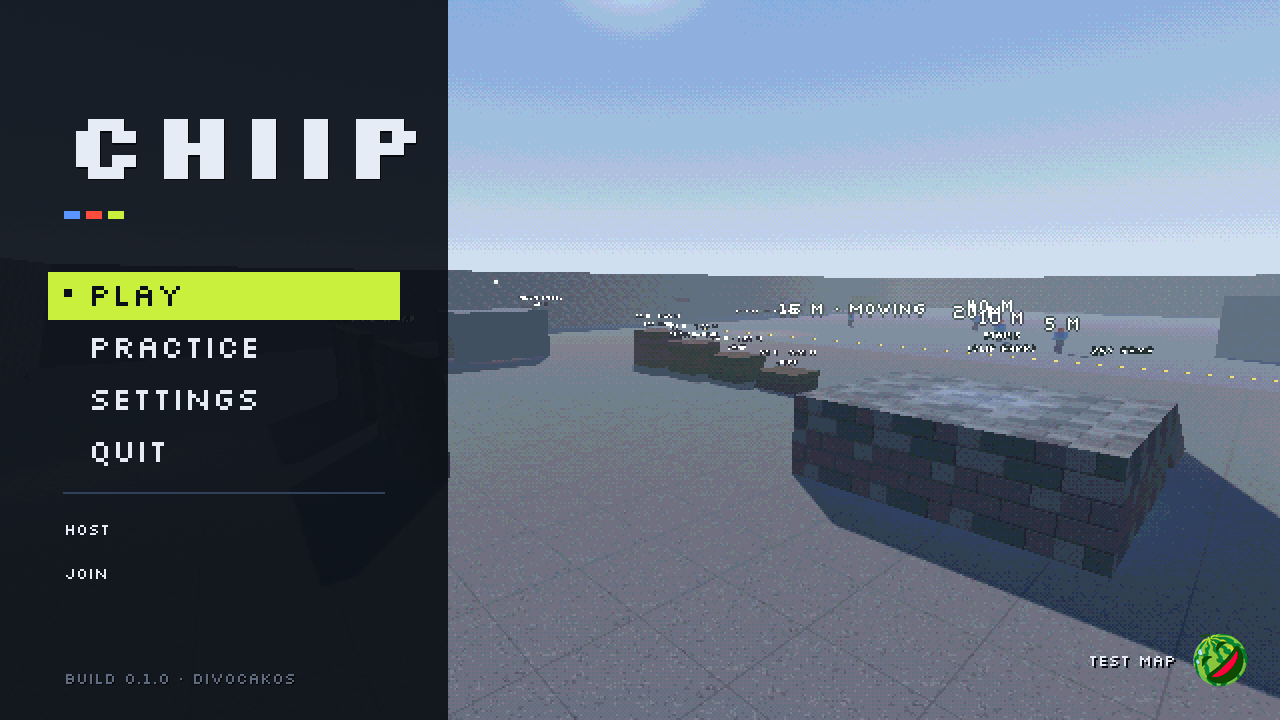
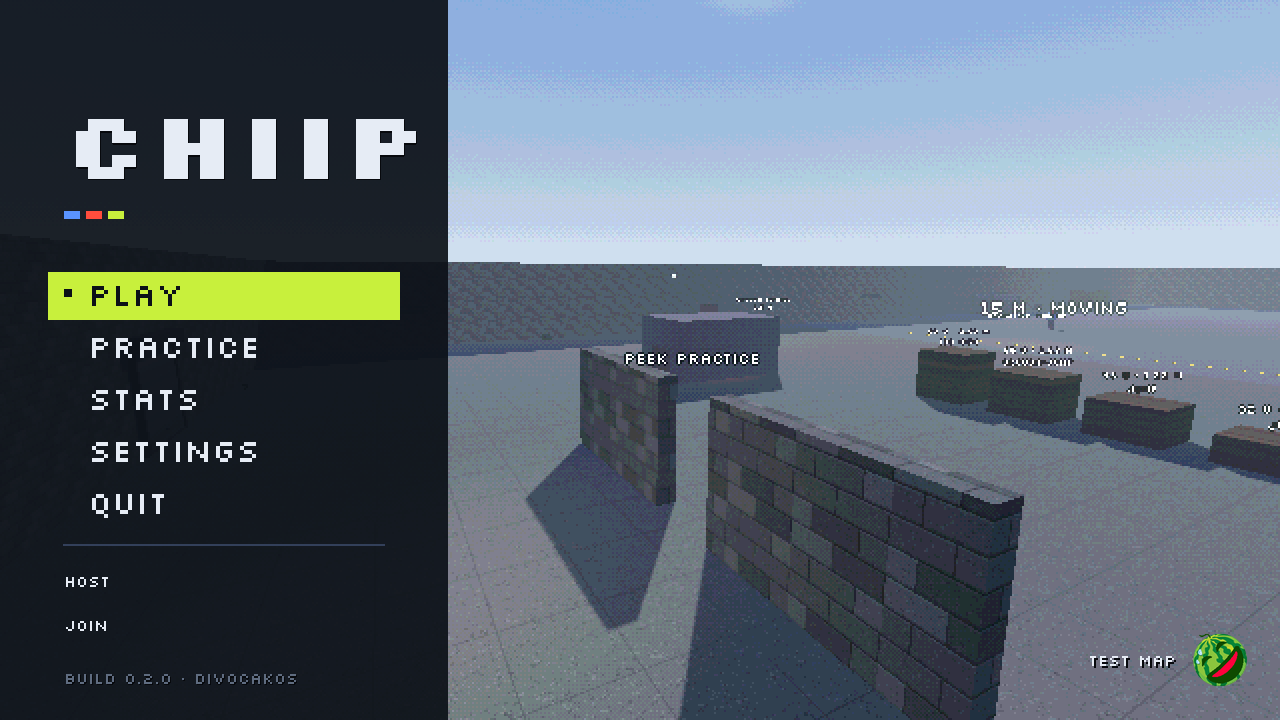
v0.2 prep: website, changelog, known issues and README for 0.2.0 (nothing published)
- site/: the start page describes v0.2 (modes, killcam, game browser, chat, stats and training, sound, accessibility, gamepad); five fresh pictures of the v0.2 UI (menu, Play screen, killcam, Stats, the game browser) replace the v0.1 ones; the Play page covers the game browser, Recent, chat and the map vote
- CHANGELOG.md: the 0.2.0 section (the release notes); docs/KNOWN_ISSUES.md brought up to v0.2; README tagline and friends guide
- D-245 records the findings for the code branch (NetProtocol.VERSION still 2, the Credits footer's "all rights reserved", tools/ui_screenshots.gd hangs)
- No version bump, no export, no push

diff --git a/site/index.html b/site/index.html
@@ -4,12 +4,12 @@
 	<meta charset="utf-8">
 	<meta name="viewport" content="width=device-width, initial-scale=1">
 	<title>Chiip: a tactical shooter with a retro Quake look</title>
-	<meta name="description" content="Chiip is a free tactical shooter in the spirit of Counter-Strike, with the look of a 1990s Quake-era game. Play against bots, or online with friends. Windows, macOS and Linux.">
+	<meta name="description" content="Chiip is a free tactical shooter in the spirit of Counter-Strike, with the look of a 1990s Quake-era game. Bomb rounds, team deathmatch and free-for-all, against bots or online with friends. Windows, macOS and Linux.">
 	<meta http-equiv="Content-Security-Policy" content="default-src 'none'; script-src 'self'; style-src 'self'; img-src 'self'; font-src 'self'; connect-src https://api.github.com; base-uri 'none'; form-action 'none'">
 	<meta name="referrer" content="strict-origin-when-cross-origin">
 	<meta name="theme-color" content="#0b1017">
 	<meta property="og:title" content="Chiip: a tactical shooter with a retro Quake look">
-	<meta property="og:description" content="Chiip is a free tactical shooter in the spirit of Counter-Strike, with the look of a 1990s Quake-era game. Play against bots, or online with friends. Windows, macOS and Linux.">
+	<meta property="og:description" content="Chiip is a free tactical shooter in the spirit of Counter-Strike, with the look of a 1990s Quake-era game. Bomb rounds, team deathmatch and free-for-all, against bots or online with friends. Windows, macOS and Linux.">
 	<meta property="og:image" content="https://jankozeluh.github.io/Chiip/img/menu.png">
 	<link rel="icon" href="img/divocakos.png">
 	<link rel="stylesheet" href="css/style.css">
@@ -31,7 +31,7 @@
 		<section class="hero wrap">
 			<h1>Chiip</h1>
 			<div class="chips" aria-hidden="true"><span class="blue"></span><span class="red"></span><span class="lime"></span></div>
-			<p class="lead">A tactical shooter in the spirit of Counter-Strike, with the look of a 1990s Quake-era game. You and your bot teammates against a team of bots, or with friends online in place of the bots. Free, for Windows, macOS and Linux.</p>
+			<p class="lead">A tactical shooter in the spirit of Counter-Strike, with the look of a 1990s Quake-era game. Bomb rounds, team deathmatch or everyone for themselves, with bot teammates and bot enemies, or online with friends in place of the bots. Free, for Windows, macOS and Linux.</p>
 			<div class="actions">
 				<a class="button primary" data-download-link href="https://github.com/Jankozeluh/Chiip/releases/latest">Download</a>
 				<a class="button" href="play.html">Play with friends</a>
@@ -40,24 +40,27 @@
 		</section>
 
 		<section class="wrap">
-			<div class="frame"><img src="img/menu.png" width="1280" height="720" alt="Chiip's main menu: Play, Practice, Settings and Quit, over a slow flight across a map"></div>
+			<div class="frame"><img src="img/menu.png" width="1280" height="720" alt="Chiip's main menu: Play, Practice, Stats, Settings and Quit, with Host and Join, over a slow flight across a map"></div>
 
 			<h2>What it is</h2>
 			<div class="cards">
-				<div class="card"><h3>Two modes</h3><p><strong>Bomb</strong>: CS-style rounds. Buy in the freeze time, plant or defuse, first to 5 rounds with a side swap. <strong>Team Deathmatch</strong>: respawning, first team to the kill limit.</p></div>
-				<div class="card"><h3>Three maps and a range</h3><p>Depot, Square and Spillway, small and fast, alone or in a rotation. The Shooting Range has targets at every distance and a stand for every gun.</p></div>
-				<div class="card"><h3>Four classes</h3><p>Two are offered at random each match. Rifleman, Bulwark, Marksman and Scout each bring a perk and a loadout.</p></div>
-				<div class="card"><h3>A full arsenal</h3><p>Rifle, carbine, SMG, shotgun, sniper, pistol, hand cannon, knife and three grenades, with armor, kits and a light economy.</p></div>
-				<div class="card"><h3>CS-style feel</h3><p>Counter-strafing, a spray pattern you can learn, headshots, a bunny-hop cap, and sensitivity in CS units. Bots on three difficulties.</p></div>
-				<div class="card"><h3>Online with friends</h3><p>One player hosts, friends join by address, bots fill the empty slots. Made for <a href="play.html">Tailscale</a>: nothing to open on your router.</p></div>
+				<div class="card"><h3>Three modes</h3><p><strong>Bomb</strong>: CS-style rounds. Buy in the freeze time, plant or defuse, first to 5 rounds with a side swap. <strong>Team Deathmatch</strong>: respawning, first team to the kill limit. <strong>Free-for-all</strong>: everyone for themselves. After a death the <strong>killcam</strong> shows the last seconds through your killer's eyes.</p></div>
+				<div class="card"><h3>Maps and a range</h3><p>Depot, Square and Spillway, small and fast, alone or in a rotation (at the end of a match everyone votes for the next map). The Shooting Range has targets at every distance, an <strong>aim trainer</strong> and a <strong>spray wall</strong> that draws each gun's pattern.</p></div>
+				<div class="card"><h3>Classes and arsenal</h3><p>Rifleman, Bulwark, Marksman and Scout (two are offered at random each match) and a full arsenal: rifle, carbine, SMG, shotgun, sniper, pistol, hand cannon, knife and three grenades, armor, kits and a light economy.</p></div>
+				<div class="card"><h3>CS-style feel</h3><p>Counter-strafing, a spray pattern you can learn, headshots, <strong>wallbangs</strong> through thin cover, and sensitivity in CS units. Bots on three difficulties that call out enemies and trade kills.</p></div>
+				<div class="card"><h3>Online with friends</h3><p>One player hosts, friends join, bots fill the empty slots. Made for <a href="play.html">Tailscale</a>: nothing to open on your router. Games on your network list themselves in the <strong>game browser</strong>; hosts you joined are remembered; <strong>text chat</strong> works in the lobby and in matches.</p></div>
+				<div class="card"><h3>Stats and training</h3><p>K/D, ADR, headshot % and accuracy per weapon, wins per mode and map, and your last 100 matches, all saved on your computer. Your bests in the aim trainer and the spray wall are kept too.</p></div>
+				<div class="card"><h3>Sound</h3><p>Every gun has its own close and far shot, sound is <strong>muffled through walls</strong> and rings in yards, rooms and halls, so you hear where a fight is and what is in the way. Menu music and round stingers included.</p></div>
+				<div class="card"><h3>For everyone</h3><p>A <strong>colour-blind-safe</strong> team colour option, <strong>gamepad</strong> support with button prompts, a compass with callouts, a UI that scales to any window, fullscreen and a UI scale setting.</p></div>
+				<div class="card"><h3>A look of its own</h3><p>Pixel-art menus in the Silkscreen font, a map kit with textures, props and lamps drawn for Chiip, a palette effect, and a free, open game: <a href="about.html">licences and credits</a>.</p></div>
 			</div>
 
 			<h2>Screens</h2>
 			<div class="shots">
-				<figure><div class="frame"><a href="img/bomb.png"><img src="img/bomb.png" width="1280" height="720" loading="lazy" alt="Planting the bomb at a site on Depot, with the round timer, score, money, health and ammo"></a></div><figcaption>Planting the bomb on Depot</figcaption></figure>
-				<figure><div class="frame"><a href="img/classes.png"><img src="img/classes.png" width="1280" height="720" loading="lazy" alt="The class menu offering the Scout and the Rifleman"></a></div><figcaption>Pick one of two classes</figcaption></figure>
-				<figure><div class="frame"><a href="img/buy.png"><img src="img/buy.png" width="1280" height="720" loading="lazy" alt="The buy menu with pistols, primaries, gear and grenades"></a></div><figcaption>The buy menu in the freeze time</figcaption></figure>
-				<figure><div class="frame"><a href="img/lobby.png"><img src="img/lobby.png" width="1280" height="720" loading="lazy" alt="The online lobby with two teams, bot slots and the address friends join at"></a></div><figcaption>The lobby: share the address, press Start</figcaption></figure>
+				<figure><div class="frame"><a href="img/modes.png"><img src="img/modes.png" width="1280" height="720" loading="lazy" alt="The Play screen with the four mode cards: Team Deathmatch, Free-for-all, Bomb and Practice, and the options under them"></a></div><figcaption>Team Deathmatch, free-for-all, bomb rounds, practice</figcaption></figure>
+				<figure><div class="frame"><a href="img/killcam.png"><img src="img/killcam.png" width="1280" height="720" loading="lazy" alt="The killcam: the last seconds before a death seen through the killer's eyes, with who killed you and how, and Space to skip"></a></div><figcaption>The killcam: your death through your killer's eyes</figcaption></figure>
+				<figure><div class="frame"><a href="img/stats.png"><img src="img/stats.png" width="1280" height="720" loading="lazy" alt="The Stats screen: K/D, ADR, headshot percentage and accuracy, accuracy per weapon, wins per mode and map, and the match history"></a></div><figcaption>Your numbers: K/D, ADR, accuracy per weapon</figcaption></figure>
+				<figure><div class="frame"><a href="img/browser.png"><img src="img/browser.png" width="1280" height="720" loading="lazy" alt="The Join page listing a game on the network with its map, mode and players, a Join button, and the Recent hosts"></a></div><figcaption>The game browser: games on your network, one click to join</figcaption></figure>
 			</div>
 		</section>
 

diff --git a/site/play.html b/site/play.html
@@ -38,9 +38,9 @@
 				<li><strong>Install Tailscale</strong> from <a href="https://tailscale.com/download">tailscale.com/download</a> (free for personal use; Windows, macOS and Linux) and sign in. Check that it says <em>Connected</em>.</li>
 				<li><strong>The host invites friends.</strong> The best way is to share <em>only the host's computer</em>, so friends can reach the game and nothing else of yours: open the <a href="https://login.tailscale.com/admin/machines">Tailscale admin console</a>, find the host's computer, open its <strong>&hellip;</strong> menu, choose <strong>Share&hellip;</strong> and send the invite link to each friend. A friend opens the link, signs in to Tailscale (a free account) and accepts. (You can also invite friends into your whole tailnet under <strong>Users &rarr; Invite</strong>, but then they can reach all your devices, so only do that for people you trust with that.)</li>
 				<li><strong>The host starts the game:</strong> main menu &rarr; <strong>Host</strong>. The lobby shows <strong>Friends join at</strong>, with the host's <strong>Tailscale address</strong> (it starts with <code>100.</code>) and a <strong>Copy</strong> button. Click <strong>Copy</strong> and send the address to your friends in chat.</li>
-				<li><strong>A friend joins:</strong> main menu &rarr; <strong>Join</strong>. Paste the address into <strong>Join by IP</strong> and press <strong>Join</strong>. Everyone sees the others in the lobby.</li>
+				<li><strong>A friend joins:</strong> main menu &rarr; <strong>Join</strong>. Paste the address into <strong>Join by IP</strong> and press <strong>Join</strong>. Everyone sees the others in the lobby. Next time the host is under <strong>Recent</strong> on the Join page, one click joins. (On the same Wi-Fi or LAN the Join page also lists the games on your network by itself, with a Join button each; Tailscale does not carry that announcement between devices, so over Tailscale paste the address once.)</li>
 				<li><strong>In the lobby</strong>, click <strong>Switch team</strong> to pick a side (your team is blue, the other red). The host's <strong>Edit setup</strong> opens the usual match setup (mode, map or rotation, team sizes, bot difficulty, length, friendly fire); empty slots are bots. The host presses <strong>Start</strong> and everyone's game loads.</li>
-				<li>Pick your class in the first freeze time (<strong>M</strong>) as in a game alone. After the match the host chooses <strong>Next map</strong>, <strong>Play again</strong> or <strong>Lobby</strong>.</li>
+				<li>Pick your class in the first freeze time (<strong>M</strong>) as in a game alone. Type to your friends with <strong>Enter</strong> (in the lobby and in a match; <strong>Esc</strong> cancels). After the match everyone can <strong>vote for the next map</strong> (with a rotation); the host chooses <strong>Next map</strong> (the most voted), <strong>Play again</strong> or <strong>Lobby</strong>.</li>
 			</ol>
 			<p>Someone who leaves during a match is taken over by a bot; someone who joins a running match takes over a bot of their team. When the host quits, everyone goes back to the menu.</p>
 

diff --git a/site/about.html b/site/about.html
@@ -35,7 +35,7 @@
 			<h2>Credits</h2>
 			<p class="credit spaced-block"><img src="img/divocakos.png" alt="The Divocakos logo, a laughing watermelon" width="56" height="56"><span>Created by JK · Divocakos</span></p>
 			<ul>
-				<li><strong>Game, art, models, maps and sounds:</strong> made for Chiip, generated or built by the tools in the repository.</li>
+				<li><strong>Game, art, models, maps, sounds and music:</strong> made for Chiip, generated or built by the tools in the repository.</li>
 				<li><strong>Silkscreen</strong> (the font): by Jason Kottke, SIL Open Font License 1.1. This website uses it too; its licence is <a href="fonts/Silkscreen-OFL.txt">here</a>.</li>
 				<li><strong>Godot Engine</strong> (MIT) and <strong>FuncGodot</strong> (MIT, reads the maps made in TrenchBroom).</li>
 				<li>The full third-party list is in <a href="https://github.com/Jankozeluh/Chiip/blob/main/THIRD_PARTY_NOTICES.md">THIRD_PARTY_NOTICES.md</a>, and in the game under <strong>Settings &rarr; Licences</strong>.</li>

diff --git a/CHANGELOG.md b/CHANGELOG.md
@@ -2,6 +2,54 @@
 
 Every release of Chiip, newest first. The section of a version is the text of its GitHub Release (`docs/RELEASING.md`), and the website's Updates page shows it. Versions follow `config/version` in `project.godot`.
 
+## [0.2.0] - 2026-10-17
+
+**Free-for-all, a killcam, a game browser and chat, stats and training, real sound, and gamepad and colour-blind options.**
+
+**Created by JK · Divocakos.** © Divocakos.
+
+### New
+
+- **Free-for-all**: everyone for themselves, first to the kill limit wins (a card on the Play screen, next to Team Deathmatch, Bomb and Practice).
+- **Killcam**: after a death in Team Deathmatch or free-for-all, the last seconds through your killer's eyes. **Space** skips it; Settings → Game turns it off.
+- **Playing with friends**: games on your network list themselves on the Join page (the game browser), the hosts you joined are kept under *Recent*, **text chat** works in the lobby and in a match (**Enter** to type, **Esc** to cancel, host-checked and plain text), and at the end of a rotation everyone **votes for the next map**.
+- **Stats**: a Stats screen with K/D, ADR, headshot %, accuracy per weapon, wins per mode and map and your last 100 matches, saved on your computer only (with an export to CSV and a reset).
+- **Training** on the Shooting Range: an **aim trainer** (30, 60 or 90-second runs of flick targets, with a best per gun) and a **spray wall** that draws the held gun's pattern against your own bullet holes.
+- **Sound**: every gun has its own close and far shot and its own reload; sound is **muffled through walls** and rings differently in yards, rooms and halls; menu music and round stingers; a music volume setting.
+- **Gamepad**: any controller, with button prompts that follow the device you used last, rebindable in Settings → Controls (a *Pad* column).
+- **Colour-blind-safe team colours** (Settings → Video: blue and orange), a **compass** with callouts, a **UI scale** setting, and an FPS counter and developer overlay on **F3**.
+- **Wallbangs**: bullets go through thin cover and lose damage by material; bots that hear you behind thin cover may spray through it.
+- **Smarter team bots**: they call out the enemies they spot and trade the death of a teammate.
+- **New menus**: the Settings, Stats, Credits and boot screens follow a new design (new Interface and Controller tabs in Settings).
+- **Bug reports**: **Report a bug** in the pause menu (or `bug_report` in the console) packs the game's log, version and settings, without your address, into a zip and opens its folder.
+
+### Fixed
+
+- Picking the colour-blind colours froze the game for several seconds.
+- Bots that stopped fighting in online Team Deathmatch.
+
+### Update
+
+Download 0.2.0 and use it instead of 0.1.1. Your settings are kept (unzip the new version anywhere and start it); the new stats file and logs are made on first use. For an online game **everyone should update**: play with friends on the same version.
+
+### Download
+
+| System | File |
+|---|---|
+| Windows 10 or newer, 64-bit | `Chiip-0.2.0-windows-x86_64.zip` |
+| macOS 11 or newer, Apple silicon and Intel | `Chiip-0.2.0-macos-universal.zip` |
+| Linux, 64-bit, with a Vulkan driver | `Chiip-0.2.0-linux-x86_64.zip` |
+
+The builds are **not signed**, so your system warns you the first time; the [README](https://github.com/Jankozeluh/Chiip#download-and-run) says how to get past it. Each release has a `SHA256SUMS.txt` with the checksum of every zip (the README says how to check yours).
+
+### Known issues
+
+See [KNOWN_ISSUES.md](https://github.com/Jankozeluh/Chiip/blob/main/docs/KNOWN_ISSUES.md). The Windows and Linux builds were made on a Mac and have not been tried on real Windows or Linux computers by the author; please report problems with your graphics card and driver. The gamepad support and the sound mix are new and have had little testing by hand.
+
+### Licences and credits
+
+Code under GPL-3.0, art, models, maps and sounds under CC BY-NC-SA 4.0; the name Divocakos and the studio logo are all rights reserved. Every download has `LICENSE`, `LICENSE-ASSETS` and `THIRD_PARTY_NOTICES.md` next to the game, and the game shows them under **Settings → Licences**.
+
 ## [0.1.1] - 2026-10-16
 
 **A fix for the first public playtest: bullets hit again.**

diff --git a/README.md b/README.md
@@ -1,6 +1,6 @@
 # Chiip
 
-A tactical shooter in the spirit of Counter-Strike, with the look of a 1990s Quake-era game: you and your bot teammates against a team of bots, bomb rounds or team deathmatch, on three small maps. Play it alone against bots, or with friends online (they take the bots' places). Free, for Windows, macOS and Linux. **Created by JK · Divocakos.** Built with [Godot](https://godotengine.org) 4.7.2.
+A tactical shooter in the spirit of Counter-Strike, with the look of a 1990s Quake-era game: you and your bot teammates against a team of bots, or everyone for themselves: bomb rounds, team deathmatch or free-for-all, on three small maps. Play it alone against bots, or with friends online (they take the bots' places). Free, for Windows, macOS and Linux. **Created by JK · Divocakos.** Built with [Godot](https://godotengine.org) 4.7.2.
 
 > **Version 0.1.1, the first public playtest** (0.1.0 with bullets that hit again). Website: <https://jankozeluh.github.io/Chiip/>. Expect rough edges; [docs/KNOWN_ISSUES.md](docs/KNOWN_ISSUES.md) lists the ones we know about. Tell us what you find.
 
@@ -133,9 +133,9 @@ Everyone who plays, host and friends, does step 1. The host does 2 and 3, the fr
 1. **Install Tailscale** from <https://tailscale.com/download> (free for personal use; Windows, macOS and Linux) and sign in. Check that it says *Connected*.
 2. **The host invites friends.** The best way is to share *only the host's computer*, so friends can reach the game and nothing else of yours: open the Tailscale admin console at <https://login.tailscale.com/admin/machines>, find the host's computer, open its **⋯** menu, choose **Share…** and send the invite link to each friend. A friend opens the link, signs in to Tailscale (a free account) and accepts. (You can also invite friends into your whole tailnet under **Users → Invite**, but then they can reach all your devices, so only do that for people you trust with that.)
 3. **The host starts the game:** main menu → **Host**. The lobby shows **Friends join at**, with the host's **Tailscale address** (it starts with `100.`) and a **Copy** button. Click **Copy** and send the address to your friends in chat.
-4. **A friend joins:** main menu → **Join**. Paste the address into **Join by IP** and press **Join**. Everyone sees the others in the lobby. Next time the host is under **Recent** on the Join page: one click joins (the last 8 hosts you joined).
+4. **A friend joins:** main menu → **Join**. Paste the address into **Join by IP** and press **Join**. Everyone sees the others in the lobby. Next time the host is under **Recent** on the Join page: one click joins (the last 8 hosts you joined). On the same Wi-Fi or LAN the Join page also lists the games on your network by itself (the **game browser**, a Join button each); Tailscale doesn't carry that announcement between devices, so over Tailscale you paste the address once.
 5. **In the lobby**, click **Switch team** to pick a side (your team is blue, the other red). The host's **Edit setup** opens the usual match setup (mode, map or rotation, team sizes, bot difficulty, length, friendly fire); empty slots are bots. The host presses **Start** and everyone's game loads.
-6. Pick your class in the first freeze time (**M**) as in a game alone. After the match everyone can **vote for the next map** (with a rotation); the host chooses **Next map** (the most voted), **Play again** or **Lobby**; the others can only **Leave**.
+6. Pick your class in the first freeze time (**M**) as in a game alone. Talk to each other with **Enter** (the lobby has a chat box, a match a chat line; Esc cancels). After the match everyone can **vote for the next map** (with a rotation); the host chooses **Next map** (the most voted), **Play again** or **Lobby**; the others can only **Leave**.
 
 Someone who leaves during a match is taken over by a bot ("Name (bot)"); someone who joins a running match takes over a bot of their team. When the host quits, everyone goes back to the menu.
 

diff --git a/docs/DECISIONS.md b/docs/DECISIONS.md
@@ -2479,6 +2479,18 @@ Not now: first-launch tips, crosshair share codes, replays. **Changed 2026-10-17
 
 **Alternatives:** Every map of the game as a choice (the Shooting Range and the hidden test map would need excluding, and the list grows with every new map); a 15 s countdown; letting a client press Next map (the host decides, D-103).
 
+## D-245 — The v0.2.0 release content is prepared on a content branch, nothing published (2026-10-17)
+
+**Decision:** On the branch `v0.2-prep` (from main 236d788, content only, D-220) the release's words and pictures are ready, and nothing is exported, pushed or released: the owner decides about v0.2.0.
+- **Website:** the start page describes v0.2 (three modes and the killcam, maps and the training range, classes and arsenal, CS-style feel with wallbangs and smarter bots, online play with the game browser, Recent, chat and map voting, stats and training, sound, accessibility and gamepad, the look) with five fresh pictures of the v0.2 UI instead of the v0.1 ones: the main menu, the Play screen with its four mode cards, the killcam, the Stats screen and the Join page listing a game on the network (a real host process beaconing on the LAN). They were captured without touching the mouse (a scratch script that starts the real scenes in a window; the menu's build label was set to "Build 0.2.0" in the picture so it doesn't show a development commit). The Play page tells about the game browser (and that Tailscale doesn't carry it, so Recent), chat and map votes. No pictures of the designer's own renders were used: the designer's v0.2 file has no website screen.
+- **CHANGELOG.md** has a `## [0.2.0]` section (the release notes: new, fixed, update, download, known issues, licences), player-facing. **KNOWN_ISSUES.md** is brought up to v0.2 (gamepad and sound by hand untested, Tailscale and the game browser, no tracking target, the killcam not in Bomb). The README's tagline and friends guide mention free-for-all, the game browser and chat.
+- **Not done on purpose:** the version bump (`config/version`, the Mac preset: RELEASING step 1), the date of the changelog heading (set on release day), `NetProtocol.VERSION`.
+- **Open findings for the code branch** (found while preparing; not changed here): (1) `NetProtocol.VERSION` is still 2 although M17 added chat, map votes, free-for-all and a killcam request: a v0.1.1 client could join a v0.2 host and meet messages it doesn't know; bump it so the host refuses the other version with its clear message. (2) The Credits screen's footer says "© Divocakos. All rights reserved." while the game is GPL-3.0 and its art CC BY-NC-SA 4.0: only the name and the logo are all rights reserved (D-174); the line should say so. (3) `tools/ui_screenshots.gd` hangs after a few screenshots (at the console or the first screenshot, depending on the run).
+
+**Why:** Your words, relayed: prepare v0.2.0 without publishing; the user decides.
+
+**Alternatives:** Bump the version and write the date now (it would put 0.2.0 on screen before the release exists, and the release test ties the version to the changelog); re-use the v0.1 pictures (they show the old UI); pictures from the designer's renders (a different look from the game's own screens).
+
 ## Open questions
 
 | Question | Decide in |

diff --git a/docs/KNOWN_ISSUES.md b/docs/KNOWN_ISSUES.md
@@ -1,8 +1,8 @@
 # Chiip: known issues
 
-> What doesn't work yet or hasn't been checked, for the first public playtest (v0.1.0). Reported bugs go to the GitHub issues. Written by the pre-release QA pass (M12, D-178; the test plan is [RELEASE_CHECKLIST.md](RELEASE_CHECKLIST.md)).
+> What doesn't work yet or hasn't been checked, for v0.2.0 (updated from the v0.1 list by the release preparation). Reported bugs go to the GitHub issues, or use **Report a bug** in the pause menu. The test plan is [RELEASE_CHECKLIST.md](RELEASE_CHECKLIST.md).
 >
-> Last updated: 2026-10-16
+> Last updated: 2026-10-17
 
 ## Builds
 
@@ -12,7 +12,7 @@
 
 ## Online play
 
-- Games are joined by typing (or pasting) the host's IP address; there is no server list and no automatic discovery of games on the LAN.
+- Games on the same network list themselves on the Join page (the game browser), but **over Tailscale you paste the host's address once** (Tailscale doesn't carry that announcement between devices); the hosts you joined are then kept under *Recent*. There is no server list on the internet.
 - The host plays too: there is no dedicated server, so the match ends for everyone when the host quits, and the host's connection decides how good it is for the others.
 - Everyone must run the same version of the game.
 - **A friend is trusted only so far.** The host checks and limits everything a friend's computer sends (a broken one can't crash or flood it), but it can't tell an aim bot or a lag switch from a good player: play with people you invited.
@@ -25,11 +25,12 @@
 
 - Fullscreen and window resizing are checked by an automated layout test at seven window sizes, not by a person on each system.
 - On a Mac, Ctrl + click may count as a right click (a macOS habit); if crouching with Ctrl misbehaves, rebind Crouch under Settings → Controls. Not confirmed either way yet.
-- No gamepad support and English only (planned, see the roadmap in `docs/PLAN.md`).
+- **Gamepad support is new** and was checked mostly with automated tests (simulated buttons and sticks): please report a controller that misbehaves, with its name.
+- English only (a Czech translation was dropped).
 
 ## Game
 
-- The sounds are simple, generated ones (a sound-design milestone is planned).
-- Bots are not smart in team tactics (no callouts, no coordinated site takes), and how a round goes varies from game to game.
-- Only three small maps, one bomb scenario, and no map voting. Community maps are welcome (CONTRIBUTING.md).
-- There are no statistics or training modes yet beyond the Shooting Range.
+- All sounds and the music are generated ones, and their mix was set by measurement; tuning by ear is still to come. Sound through doorways (a path, not just walls) is not done.
+- Bots call out enemies and trade kills now, but they don't take a bomb site together, and how a round goes varies from game to game.
+- Only three small maps and one bomb scenario (the map vote at the end of a rotation chooses among those three). Community maps are welcome (CONTRIBUTING.md).
+- Stats are kept on your computer only, with no charts over time yet, and the aim trainer has flick targets only (no tracking target). The killcam plays in Team Deathmatch and free-for-all, not in Bomb.

diff --git a/docs/DEVLOG.md b/docs/DEVLOG.md
@@ -2,6 +2,17 @@
 
 > One entry per work session, newest at the top: what was done, which decisions were made, and what's next.
 
+## 2026-10-17 — v0.2.0 release content prepared
+
+Branch `v0.2-prep` (Sonnet, content only, D-245), from main 236d788. Nothing exported, pushed or released.
+
+**Done**
+- **Website:** the start page's features and five fresh pictures of the v0.2 UI (menu, Play screen, killcam, Stats, the game browser), the Play page's game browser, Recent, chat and vote; `site/img` has `menu`, `modes`, `killcam`, `stats` and `browser`.
+- **CHANGELOG.md** `## [0.2.0]` (the release notes), **KNOWN_ISSUES.md** for v0.2, the README's tagline and friends guide.
+- **Findings for the code branch** (D-245): `NetProtocol.VERSION` is still 2; the Credits screen's footer says all rights reserved; `tools/ui_screenshots.gd` hangs.
+
+**Next:** your decision about v0.2.0; then RELEASING.md (bump the version and the date, the full suite, `tools/check_release.sh`, zips, checksums, push, release).
+
 ## 2026-10-17 — M15 fix: picking the colour-blind colours froze the game
 
 Branch `fix-colorblind` (Sonnet), from main 577e031. From your playtest: "spadne to kdyz vybero color blind" (it crashes when I pick colour blind).
